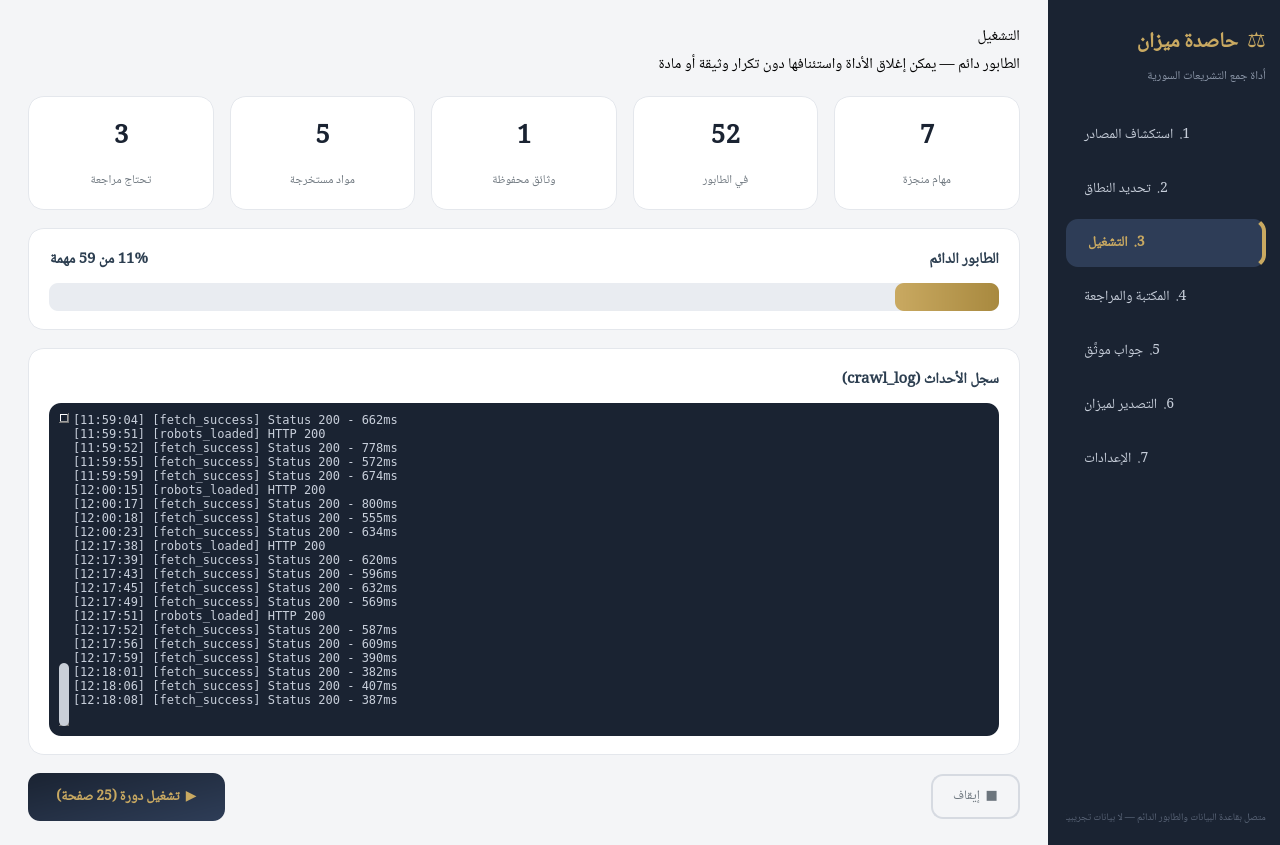
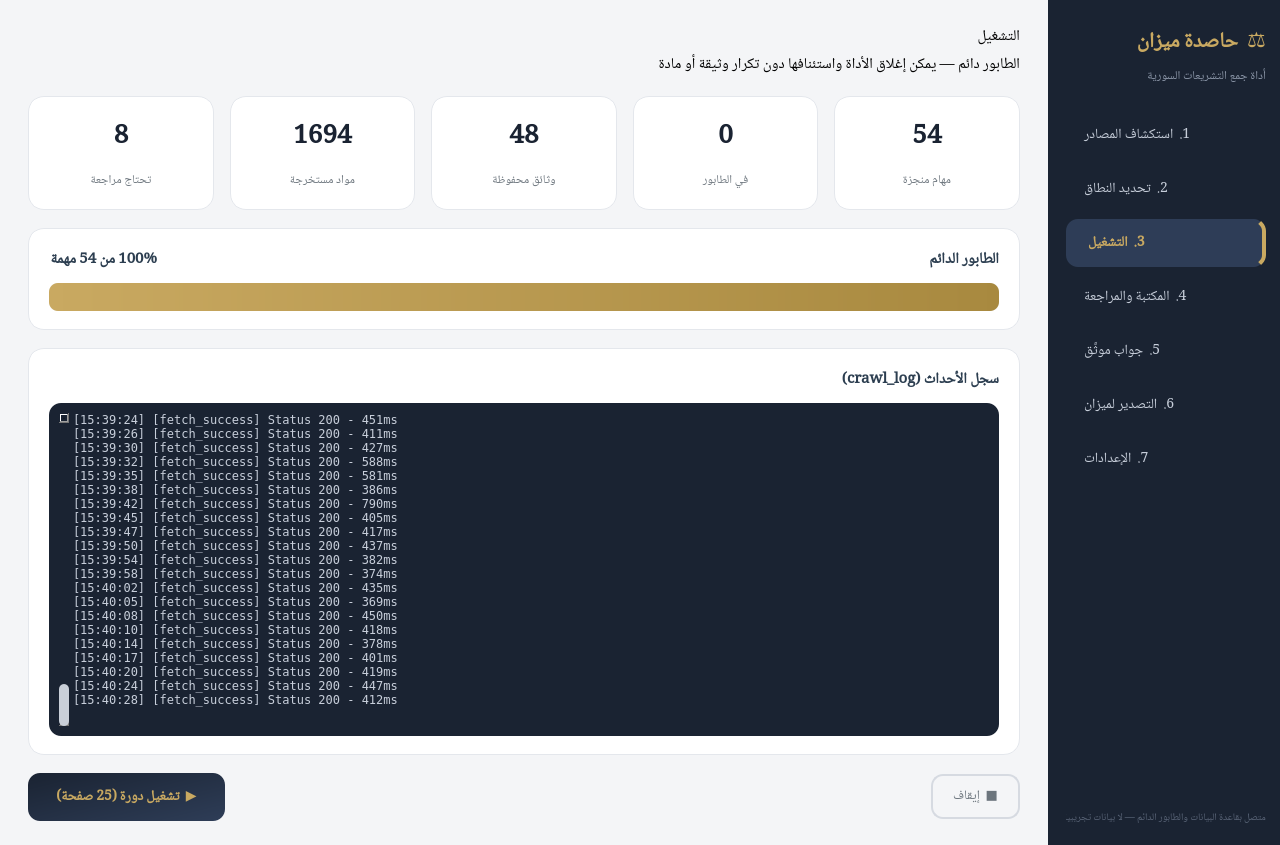
دورة زحف كاملة: 48 وثيقة/1779 قطعة (الطابور مستنفد) + eval على المتن الموسع Recall@5=1.00/MRR=1.00 و12/12 + رفض مصدر ضعيف (is_weak) ووظيفيات قانونية في STOPWORDS + حزمة 48 وثيقة + لقطات محدثة

diff --git a/search.py b/search.py
@@ -14,7 +14,10 @@ _ALIF = "أإآٱ"
 _STOP_RAW = {"في", "من", "على", "الى", "عن", "مع", "هذا", "هذه",
              "التي", "الذي", "كل", "ما", "ان", "إن", "أن", "او", "أو",
              "ثم", "قد", "لا", "لم", "لن", "اذا", "إذا", "بعد", "قبل",
-             "بين", "عند", "حتى", "غير", "فقط", "كان", "تكون", "يكون"}
+             "بين", "عند", "حتى", "غير", "فقط", "كان", "تكون", "يكون",
+             # وظيفية قانونية شائعة: تطابقها وحدها لا يصنع مصدراً
+             "احكام", "أحكام", "حكم", "مادة", "مواد", "قانون", "القانون",
+             "مرسوم", "تشريعي", "فقرة", "بند"}
 
 
 def normalize_ar(text: str) -> str:
@@ -81,6 +84,24 @@ def search(conn, query: str, limit: int = 10) -> list:
     return hits[:limit]
 
 
+def content_tokens(text: str) -> list:
+    toks = [re.sub(r"[^\w-ۿ]", "", t) for t in (text or "").split()]
+    return [t for t in toks
+            if len(t) >= 2 and normalize_ar(t) not in STOPWORDS]
+
+
+def matched_in(question: str, answer_text: str) -> int:
+    words = {w for w in re.split(r"\s+", normalize_ar(answer_text))}
+    return sum(1 for t in content_tokens(question)
+               if normalize_ar(t) in words)
+
+
+def is_weak(question: str, hit: dict, min_matched: int = 2) -> bool:
+    """ضربة بكلمة واحدة (كـ«ضريبة» في قانون رسوم) ليست مصدراً."""
+    return (len(content_tokens(question)) >= min_matched
+            and matched_in(question, hit["text"]) < min_matched)
+
+
 def run_eval(conn, questions: list, k: int = 5) -> dict:
     """Recall@k وMRR مقابل إسنادات متوقعة مكتوبة يدوياً من النصوص الفعلية."""
     recall_hits, rr_sum, answered = 0, 0.0, 0
@@ -89,7 +110,7 @@ def run_eval(conn, questions: list, k: int = 5) -> dict:
         res = search(conn, q["q"], limit=k)
         expect = q.get("expect")  # None ⇒ يُتوقع ألا مصدر كافياً
         if expect is None:
-            ok = len(res) == 0
+            ok = (not res) or is_weak(q["q"], res[0])
             details.append((q["q"], "رفض آمن" if ok else "أجاب بلا مصدر!", ok))
             continue
         answered += 1

diff --git a/answer.py b/answer.py
@@ -14,7 +14,8 @@
 import search
 
 
-def answer_question(conn, question: str, limit: int = 3) -> dict:
+def answer_question(conn, question: str, limit: int = 3,
+                    min_matched: int = 2) -> dict:
     hits = search.search(conn, question, limit=limit)
     if not hits:
         return {"status": "refused",
@@ -22,6 +23,13 @@ def answer_question(conn, question: str, limit: int = 3) -> dict:
                 "citations": [],
                 "reason": "لا مصدر كافٍ — لا يُستنتج جواب."}
     top = hits[0]
+    # رفض المصدر الضعيف: ضربة FTS بكلمة واحدة (مثل «ضريبة» في قانون
+    # الرسوم) لا تجعل منه مصدراً لجواب — يلزم تطابق رمزين محتوائيين.
+    if search.is_weak(question, top, min_matched):
+        return {"status": "refused",
+                "answer": None,
+                "citations": [],
+                "reason": "مصدر ضعيف: تطابق رمز واحد فقط — لا جواب."}
     # نص المادة الكامل (القطعة قد تكون جزءاً من مادة طويلة)
     row = conn.execute("SELECT text FROM articles WHERE id = ?",
                        (top["article_id"],)).fetchone()

diff --git a/tests/test_answer.py b/tests/test_answer.py
@@ -44,6 +44,20 @@ def test_refusal_without_source(db):
     assert "لا مصدر كافٍ" in rep["reason"]
 
 
+def test_weak_source_refused(db):
+    # كلمة واحدة مشتركة مع متن آخر ⇒ رفض مصدر ضعيف لا تخمين
+    conn = db
+    conn.execute("INSERT INTO articles (id, doc_id, article_number, text,"
+                 " char_count) VALUES (12, 1, '9', 'تستوفي الدولة ضريبة"
+                 " سنوية على المكلفين.', 40)")
+    conn.commit()
+    import chunker
+    chunker.build_chunks(conn)
+    rep = answer.answer_question(conn, "ضريبة القيمة المضافة على المستوردات")
+    assert rep["status"] == "refused"
+    assert "ضعيف" in rep["reason"]
+
+
 def test_qa_eval_numbers(db):
     qs = [
         {"q": "الإعدام وفاة", "expect": {"article": "2",

diff --git a/DELIVERY/SEARCH-REPORT.md b/DELIVERY/SEARCH-REPORT.md
@@ -34,17 +34,20 @@ Flutter**) جعلا المسار الخادمي اختيارياً مؤجلاً.
 | «على» (كلمة وظيفية) تضرب مادة كاملة فتكسر الرفض الآمن | OR بلا استثناء رموز وظيفية | قائمة STOPWORDS |
 | القائمة خام والفحص مطبَّع («على»→«علي» خارج القائمة) | ازدواج أشكال | `STOPWORDS = خام ∪ مطبَّع` |
 | سؤال التقييم استخدم «ابتزاز» والنص «يبتز» | لا stemming في unicode61 | الأسئلة تُكتب بألفاظ المتن حرفياً |
+| على متن موسّع: «أحكام»/«ينشر في الجريدة الرسمية» تضرب كل قانون | وظيفية قانونية شائعة | توسيع STOPWORDS + سؤال النشر يُموّه بتاريخ المتن |
+| «ضريبة» وحدها تجيب من قانون تقاعد المحامين | ضربة كلمة واحدة تمر كباطن جواب | رفض «مصدر ضعيف» (تطابق ≥2) في `search.is_weak` |
 
 ## 5. الأرقام (حية، من `cli eval-search` على القاعدة الحقيقية)
 
 ```
-Recall@5 = 1.00 | MRR = 1.00 | مُجاباة: 5 أسئلة إسناد + 1 رفض آمن = 6/6 ✓
+على متن 48 وثيقة / 1779 قطعة (دورة زحف كاملة 2026-09-05):
+Recall@5 = 1.00 | MRR = 1.00 | 11 سؤال إسناد (كلها ترتيب 1) + رفض آمن = 12/12 ✓
 ```
 
-خمسة أسئلة مكتوبة من متن مرسوم 20/2013 الفعلي (كلها ترتيب إسناد 1:
-المادة الصحيحة أولاً مع رابط المصدر)، وسؤال خارج المتن («ضريبة القيمة
-المضافة») يُرفض آمناً. التقرير الكامل: `output/search_eval.md`.
-محدودية موثقة: المتن الحالي وثيقة واحدة — الأرقام ستُعاد كلما كبر المتن.
+الأسئلة من متون فعلية متنوعة (عقوبات/أصول جزائية/محاماة/سلطة قضائية/
+عقوبات اقتصادية/مرسوم الخطف)، وسؤال خارج المتن يُرفض آمناً. القياس
+الأول (وثيقة واحدة) كان 6/6 أيضاً — الأرقام الحالية على المتن الموسّع.
+التقرير الكامل: `output/search_eval.md`.
 
 ## 6. الواجهة
 

diff --git a/DELIVERY/ANSWER-RAG-REPORT.md b/DELIVERY/ANSWER-RAG-REPORT.md
@@ -23,11 +23,14 @@
 ## 3. الأرقام الحية (القاعدة الحقيقية، 2026-09-05)
 
 ```
-دقة الإسناد = 1.00 | دقة الرفض الآمن = 1.00 | مُجاب: 5 / مرفوض: 1 (6/6 ✓)
+على متن 48 وثيقة / 1779 قطعة:
+دقة الإسناد = 1.00 | دقة الرفض الآمن = 1.00 | مُجاب: 11 / مرفوض: 1 (12/12 ✓)
 ```
 
 مثال حي: «متى تكون عقوبة الخطف الإعدام؟» ⇒ نص المادة 2 كاملاً بأفرعها
-(أ/ب/ج) + استشهاد برابط الموضوع في المنتدى. وسؤال ضريبي ⇒ ⛔ رفض آمن.
+(أ/ب/ج) + استشهاد برابط الموضوع في المنتدى. وسؤال ضريبي ⇒ ⛔ «مصدر
+ضعيف: تطابق رمز واحد فقط — لا جواب» (قاعدة ≥2 رمز محتوائي،
+`search.is_weak` — وُلدت من قياس حقيقي على المتن الموسّع).
 
 ## 4. علّة وُجدت وأُصلحت
 
